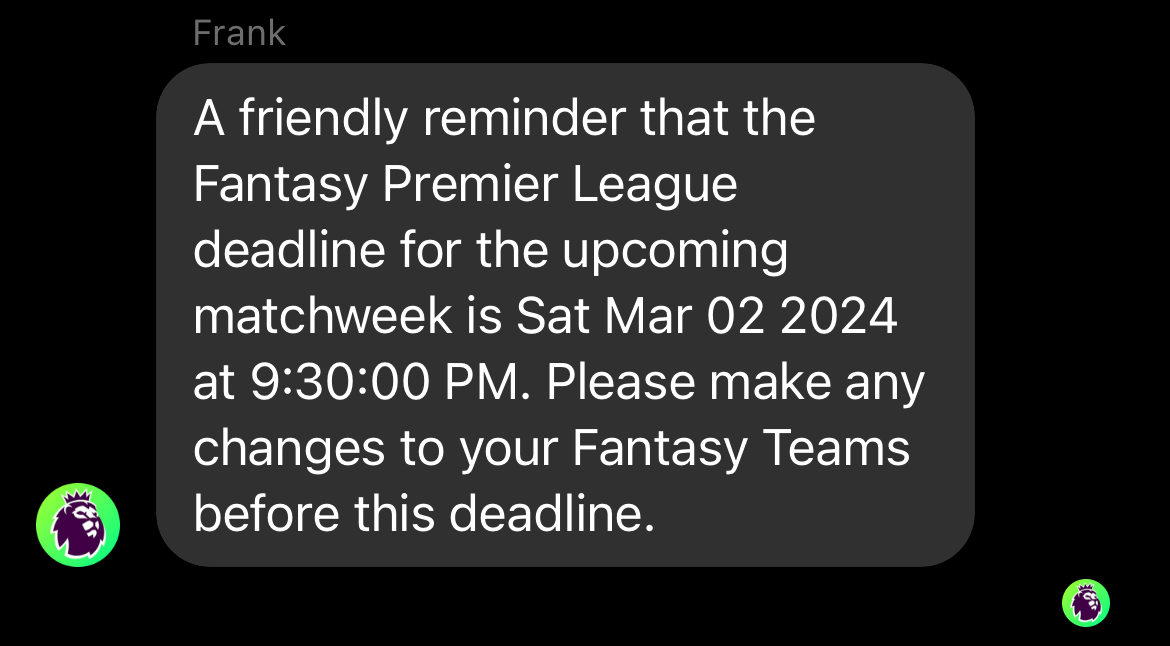
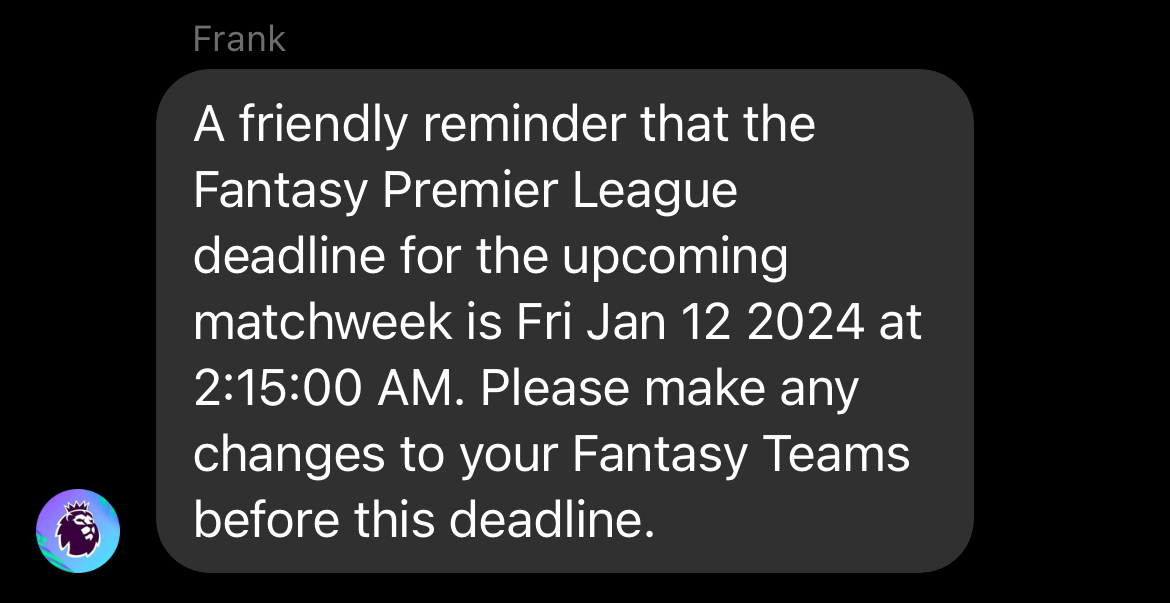
Added original image back and referencing new one in readme

Changed region(s): [[0.0308, 0.1194, 0.8308, 0.9552], [0.1538, 0.0299, 0.8308, 0.1791], [0.8923, 0.8955, 0.9538, 0.9851]]

diff --git a/README.md b/README.md
@@ -2,4 +2,4 @@
 
 A serverless AWS Lambda function built using Node.js, Puppeteer-Core (this is a library that does not download Chrome when installed), sparticuz/chromium(a Chromium binary for serverless platforms) and the Serverless Framework to remind my friends to make changes to their Fantasy Premier League teams prior to each matchweek's deadline. Puppeteer is used to scrape the date and time of the first game of the matchweek on the Premier League website and then sign into Facebook and remind my friends about the deadline (which is 90 minutes prior to the start time of the first game) by writing a message to a group chat we are all in. This serverless function should run everyday at 3pm AWST and will only send a reminder if the first game of the matchweek is within 24 hours of when this function is run.
 
-![alt text](/public/reminder-message.jpg)
+![alt text](/public/reminder-message-new.jpg)
